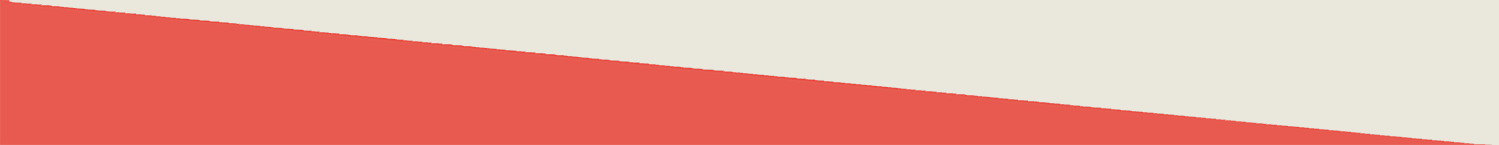
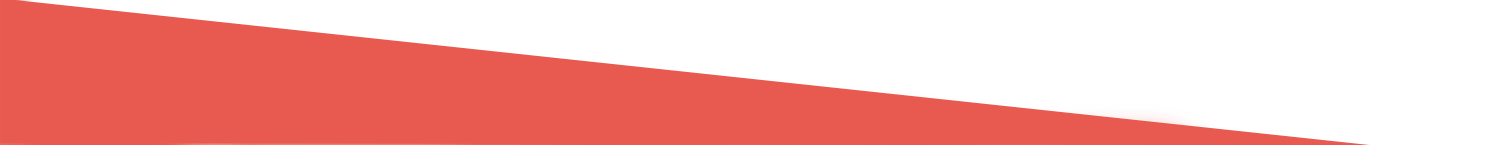
background color, link curser

diff --git a/assets/style.css b/assets/style.css
@@ -7,7 +7,7 @@
 }
 
 body {
-    background-color: var(--light);
+    background-color: white;
     font-family: 'Courier New', Courier, monospace;
 }
 
@@ -20,6 +20,7 @@ p {
 a {
     color: var(--light);
     text-decoration: none;
+    cursor: pointer;
  }
 
 h2 {
@@ -41,21 +42,20 @@ h3 {
 }
 
 h4 {
-    font-size: 25px;
+    font-size: 28px;
     font-family: 'Courier New', Courier, monospace;
-    align-self: center;
     grid-column: 3 / 7;
     grid-row: 1;
     padding-top: 20%;
-    align-self: stretch;
-    margin-top: 20%;
+    margin-top: 10%;
+    padding-left: 10px;
 }
 
 .wrapper {
     display: grid;
     grid-template-columns: repeat(6, 1fr);
     grid-template-rows: auto;
-    background-color: var(--light);
+    /* background-color: var(--light); */
 }
 
 .header {
@@ -72,8 +72,8 @@ h4 {
     align-self: flex-end;
     display:inline-flex;
     padding: 10px 20px 8px 40px;
-    border-right: solid var(--light);
-    border-bottom: solid var(--light) 3px;
+    /* border-right: solid var(--light);
+    border-bottom: solid var(--light) 3px; */
 }
 
 .navigation {
@@ -95,7 +95,7 @@ h4 {
 
 .sidebar {
     display: grid;
-    /* background-color: var(--tan); */
+    /* background-color: var(--light); */
     grid-column: 1;
 }
 
@@ -127,11 +127,12 @@ h4 {
 }
 
 .about-me p {
-    margin-right: 5%;
+    margin-right: 15%;
     grid-column: 3 / span 6;
     grid-row: 2;
     align-self: stretch;
-    padding: 15px 15px 100px 0;
+    padding: 15px 50px 10px 10px;
+    border-bottom: solid var(--dark-pink) 1px;
 }
 
 .portfolio-images {
